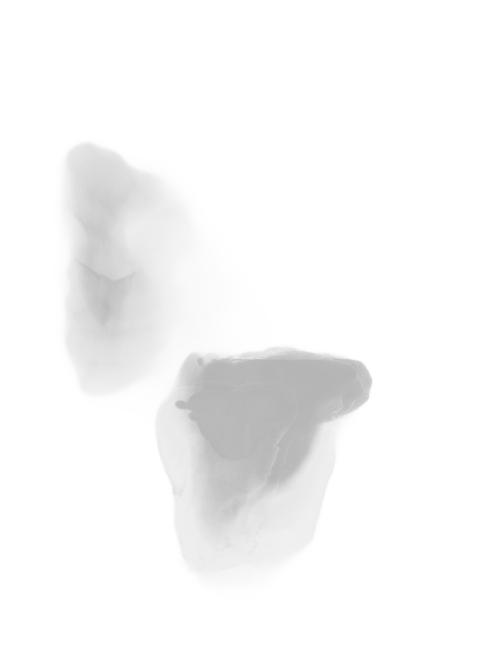
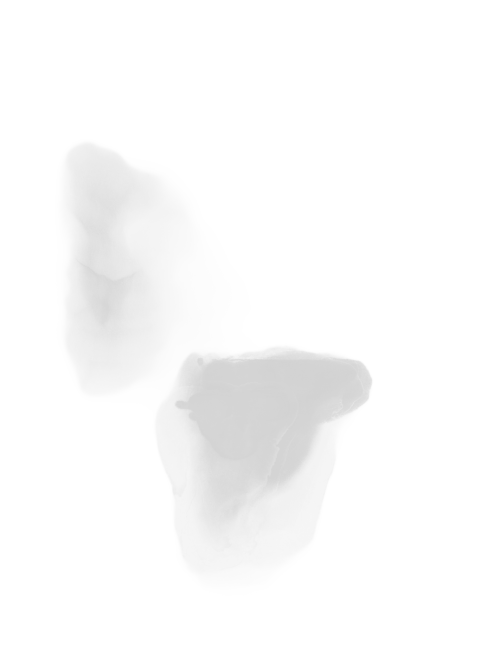
deploy: ypshen17/ypshen17-site-src@fec92125baae1ac3209c103fe54dfe2d74b7e0f9

Changed region(s): [[0.3742, 0.5538, 0.7484, 0.7692], [0.1871, 0.4308, 0.2495, 0.4923], [0.1871, 0.4, 0.2183, 0.4308]]

diff --git a/visions/03-inbetween/index.html b/visions/03-inbetween/index.html
@@ -18,12 +18,12 @@
 <meta property="og:site_name" content="Yipeng Shen" />
 <meta property="og:image" content="https://ypshen17.github.io/assets/visions/3.jpg" />
 <meta property="og:type" content="article" />
-<meta property="article:published_time" content="2025-09-19T15:05:08+00:00" />
+<meta property="article:published_time" content="2025-09-19T15:09:49+00:00" />
 <meta name="twitter:card" content="summary_large_image" />
 <meta property="twitter:image" content="https://ypshen17.github.io/assets/visions/3.jpg" />
 <meta property="twitter:title" content="The Spaces Between" />
 <script type="application/ld+json">
-{"@context":"https://schema.org","@type":"BlogPosting","dateModified":"2025-09-19T15:05:08+00:00","datePublished":"2025-09-19T15:05:08+00:00","description":"Urban spaces are often defined by what they contain. Buildings, roads, streets, and parks create a visible boundary between life and design. But what if we embraced the in-between? The spaces left unoccupied, the fragments of city design that remain undefined — these are the true potential spaces of the future. The gaps between buildings and roads will become the places of belonging, not bound by design but shaped by experience. The spaces between are not voids, but places of endless possibility. They are the spaces where sound meets thought, where humanity meets architecture. They will transform into interactive nodes, where individuals and communities can shape their surroundings, guided by their sensory experiences rather than rigid, predefined boundaries. Could the neglected margins of urban spaces hold the keys to inclusive design? These spaces may be the future heartbeats of a city that no longer divides, but embraces the unbuilt.","headline":"The Spaces Between","image":"https://ypshen17.github.io/assets/visions/3.jpg","mainEntityOfPage":{"@type":"WebPage","@id":"https://ypshen17.github.io/visions/03-inbetween/"},"url":"https://ypshen17.github.io/visions/03-inbetween/"}</script>
+{"@context":"https://schema.org","@type":"BlogPosting","dateModified":"2025-09-19T15:09:49+00:00","datePublished":"2025-09-19T15:09:49+00:00","description":"Urban spaces are often defined by what they contain. Buildings, roads, streets, and parks create a visible boundary between life and design. But what if we embraced the in-between? The spaces left unoccupied, the fragments of city design that remain undefined — these are the true potential spaces of the future. The gaps between buildings and roads will become the places of belonging, not bound by design but shaped by experience. The spaces between are not voids, but places of endless possibility. They are the spaces where sound meets thought, where humanity meets architecture. They will transform into interactive nodes, where individuals and communities can shape their surroundings, guided by their sensory experiences rather than rigid, predefined boundaries. Could the neglected margins of urban spaces hold the keys to inclusive design? These spaces may be the future heartbeats of a city that no longer divides, but embraces the unbuilt.","headline":"The Spaces Between","image":"https://ypshen17.github.io/assets/visions/3.jpg","mainEntityOfPage":{"@type":"WebPage","@id":"https://ypshen17.github.io/visions/03-inbetween/"},"url":"https://ypshen17.github.io/visions/03-inbetween/"}</script>
 <!-- End Jekyll SEO tag -->
 
 

diff --git a/visions/05-movement/index.html b/visions/05-movement/index.html
@@ -18,12 +18,12 @@
 <meta property="og:site_name" content="Yipeng Shen" />
 <meta property="og:image" content="https://ypshen17.github.io/assets/visions/5.jpg" />
 <meta property="og:type" content="article" />
-<meta property="article:published_time" content="2025-09-19T15:05:08+00:00" />
+<meta property="article:published_time" content="2025-09-19T15:09:49+00:00" />
 <meta name="twitter:card" content="summary_large_image" />
 <meta property="twitter:image" content="https://ypshen17.github.io/assets/visions/5.jpg" />
 <meta property="twitter:title" content="The Tides of Movement" />
 <script type="application/ld+json">
-{"@context":"https://schema.org","@type":"BlogPosting","dateModified":"2025-09-19T15:05:08+00:00","datePublished":"2025-09-19T15:05:08+00:00","description":"The city is not a static entity, but a dynamic force — flowing, moving, evolving. Human movement is the lifeblood of the city, but what if the city could move with us? What if urban spaces could adapt in real time, shifting with the rhythm of pedestrian, vehicular, and social flows? This vision imagines a liquid city, where spaces expand and contract depending on human needs, where streets breathe in harmony with the ebb and flow of life. Through sonic interaction, visual mapping, and adaptive architecture, the city will be able to sense and respond to its people, transforming itself to meet their needs. The tides of movement will be the new metric for urban design, as cities shift with their users, constantly reconfiguring to stay alive. How can we design cities that are alive, that move with us, rather than against us? The future city will not just house us, but flow with us, constantly adapting to the rhythm of life.","headline":"The Tides of Movement","image":"https://ypshen17.github.io/assets/visions/5.jpg","mainEntityOfPage":{"@type":"WebPage","@id":"https://ypshen17.github.io/visions/05-movement/"},"url":"https://ypshen17.github.io/visions/05-movement/"}</script>
+{"@context":"https://schema.org","@type":"BlogPosting","dateModified":"2025-09-19T15:09:49+00:00","datePublished":"2025-09-19T15:09:49+00:00","description":"The city is not a static entity, but a dynamic force — flowing, moving, evolving. Human movement is the lifeblood of the city, but what if the city could move with us? What if urban spaces could adapt in real time, shifting with the rhythm of pedestrian, vehicular, and social flows? This vision imagines a liquid city, where spaces expand and contract depending on human needs, where streets breathe in harmony with the ebb and flow of life. Through sonic interaction, visual mapping, and adaptive architecture, the city will be able to sense and respond to its people, transforming itself to meet their needs. The tides of movement will be the new metric for urban design, as cities shift with their users, constantly reconfiguring to stay alive. How can we design cities that are alive, that move with us, rather than against us? The future city will not just house us, but flow with us, constantly adapting to the rhythm of life.","headline":"The Tides of Movement","image":"https://ypshen17.github.io/assets/visions/5.jpg","mainEntityOfPage":{"@type":"WebPage","@id":"https://ypshen17.github.io/visions/05-movement/"},"url":"https://ypshen17.github.io/visions/05-movement/"}</script>
 <!-- End Jekyll SEO tag -->
 
 

diff --git a/visions/02-ground/index.html b/visions/02-ground/index.html
@@ -18,12 +18,12 @@
 <meta property="og:site_name" content="Yipeng Shen" />
 <meta property="og:image" content="https://ypshen17.github.io/assets/visions/2.jpg" />
 <meta property="og:type" content="article" />
-<meta property="article:published_time" content="2025-09-19T15:05:08+00:00" />
+<meta property="article:published_time" content="2025-09-19T15:09:49+00:00" />
 <meta name="twitter:card" content="summary_large_image" />
 <meta property="twitter:image" content="https://ypshen17.github.io/assets/visions/2.jpg" />
 <meta property="twitter:title" content="The Echoes of Silence" />
 <script type="application/ld+json">
-{"@context":"https://schema.org","@type":"BlogPosting","dateModified":"2025-09-19T15:05:08+00:00","datePublished":"2025-09-19T15:05:08+00:00","description":"The ground beneath our feet is more than just earth. It is a repository of stories, an echo of centuries of forgotten lives. As the city grows taller, its roots dig deeper, not into concrete foundations, but into the heartbeats of the land. To design the future of urban spaces is to reimagine the verticality of life — not upward, but downward. This vision seeks a reversal: instead of rising towards the sky, we dig into the depths of our urban environments. Subterranean worlds will be reconnected to the living above. Underground spaces, woven with natural and cultural histories, will shape the future cities we build. Soundscapes will emanate from the ground up — a reminder that the city has a soul buried within it. What if the earth beneath the city could speak? What if the city, instead of rising, listened? In this reimagined future, urbanism will grow downward and inward — where history is not lost, but retrieved.","headline":"The Echoes of Silence","image":"https://ypshen17.github.io/assets/visions/2.jpg","mainEntityOfPage":{"@type":"WebPage","@id":"https://ypshen17.github.io/visions/02-ground/"},"url":"https://ypshen17.github.io/visions/02-ground/"}</script>
+{"@context":"https://schema.org","@type":"BlogPosting","dateModified":"2025-09-19T15:09:49+00:00","datePublished":"2025-09-19T15:09:49+00:00","description":"The ground beneath our feet is more than just earth. It is a repository of stories, an echo of centuries of forgotten lives. As the city grows taller, its roots dig deeper, not into concrete foundations, but into the heartbeats of the land. To design the future of urban spaces is to reimagine the verticality of life — not upward, but downward. This vision seeks a reversal: instead of rising towards the sky, we dig into the depths of our urban environments. Subterranean worlds will be reconnected to the living above. Underground spaces, woven with natural and cultural histories, will shape the future cities we build. Soundscapes will emanate from the ground up — a reminder that the city has a soul buried within it. What if the earth beneath the city could speak? What if the city, instead of rising, listened? In this reimagined future, urbanism will grow downward and inward — where history is not lost, but retrieved.","headline":"The Echoes of Silence","image":"https://ypshen17.github.io/assets/visions/2.jpg","mainEntityOfPage":{"@type":"WebPage","@id":"https://ypshen17.github.io/visions/02-ground/"},"url":"https://ypshen17.github.io/visions/02-ground/"}</script>
 <!-- End Jekyll SEO tag -->
 
 

diff --git a/visions/04-memory/index.html b/visions/04-memory/index.html
@@ -18,12 +18,12 @@
 <meta property="og:site_name" content="Yipeng Shen" />
 <meta property="og:image" content="https://ypshen17.github.io/assets/visions/4.jpg" />
 <meta property="og:type" content="article" />
-<meta property="article:published_time" content="2025-09-19T15:05:08+00:00" />
+<meta property="article:published_time" content="2025-09-19T15:09:49+00:00" />
 <meta name="twitter:card" content="summary_large_image" />
 <meta property="twitter:image" content="https://ypshen17.github.io/assets/visions/4.jpg" />
 <meta property="twitter:title" content="The Sound of Memory" />
 <script type="application/ld+json">
-{"@context":"https://schema.org","@type":"BlogPosting","dateModified":"2025-09-19T15:05:08+00:00","datePublished":"2025-09-19T15:05:08+00:00","description":"Every city has a history that cannot be seen — only heard. The urban soundscape carries the memories of its people — whispered conversations, the clatter of construction, the distant echoes of a long-gone past. But in the modern city, we have erased much of this sound. The noise of progress has drowned out the voices of memory. In the future, cities will remember through sound. Each public space will be designed to hold sonic memories, where the past reverberates through the urban landscape. Sound libraries, archives of the forgotten, will fill the air with the voices of history, ensuring that the urban narrative is felt, not just seen. Sound-design tools will bring a future that listens. How does a city remember? What does a city speak, if its history is lost? In the sound of memory, the city will find its voice again — not just in visual spaces, but in sonic archives that echo across generations.","headline":"The Sound of Memory","image":"https://ypshen17.github.io/assets/visions/4.jpg","mainEntityOfPage":{"@type":"WebPage","@id":"https://ypshen17.github.io/visions/04-memory/"},"url":"https://ypshen17.github.io/visions/04-memory/"}</script>
+{"@context":"https://schema.org","@type":"BlogPosting","dateModified":"2025-09-19T15:09:49+00:00","datePublished":"2025-09-19T15:09:49+00:00","description":"Every city has a history that cannot be seen — only heard. The urban soundscape carries the memories of its people — whispered conversations, the clatter of construction, the distant echoes of a long-gone past. But in the modern city, we have erased much of this sound. The noise of progress has drowned out the voices of memory. In the future, cities will remember through sound. Each public space will be designed to hold sonic memories, where the past reverberates through the urban landscape. Sound libraries, archives of the forgotten, will fill the air with the voices of history, ensuring that the urban narrative is felt, not just seen. Sound-design tools will bring a future that listens. How does a city remember? What does a city speak, if its history is lost? In the sound of memory, the city will find its voice again — not just in visual spaces, but in sonic archives that echo across generations.","headline":"The Sound of Memory","image":"https://ypshen17.github.io/assets/visions/4.jpg","mainEntityOfPage":{"@type":"WebPage","@id":"https://ypshen17.github.io/visions/04-memory/"},"url":"https://ypshen17.github.io/visions/04-memory/"}</script>
 <!-- End Jekyll SEO tag -->
 
 

diff --git a/visions/01-echo/index.html b/visions/01-echo/index.html
@@ -18,12 +18,12 @@
 <meta property="og:site_name" content="Yipeng Shen" />
 <meta property="og:image" content="https://ypshen17.github.io/assets/visions/1.jpg" />
 <meta property="og:type" content="article" />
-<meta property="article:published_time" content="2025-09-19T15:05:08+00:00" />
+<meta property="article:published_time" content="2025-09-19T15:09:49+00:00" />
 <meta name="twitter:card" content="summary_large_image" />
 <meta property="twitter:image" content="https://ypshen17.github.io/assets/visions/1.jpg" />
 <meta property="twitter:title" content="The Echoes of Silence" />
 <script type="application/ld+json">
-{"@context":"https://schema.org","@type":"BlogPosting","dateModified":"2025-09-19T15:05:08+00:00","datePublished":"2025-09-19T15:05:08+00:00","description":"In the fragmented hum of modern cities, there lies an unnoticed silence. It is not the absence of sound, but the absence of presence. The urban pulse, embedded in the structures, only asks to be heard through fragmented frequencies, lost in the chaos of design. We stand at the edge of a new form of listening: The silence that is heard. This is a call for cities where sound and silence are not opposites, but intertwined. Where the void speaks, and the noise listens. In this sonic landscape, spaces will be designed to breathe with the rhythms of forgotten pasts and uncertain futures. Public spaces will become soundscapes, composed not just of human voices, but of the city’s pulse, its memory, its forgotten whispers. Can silence itself be a tool of urban inclusion? Can the absence of sound be reimagined as a voice that speaks to those silenced by the dominant noise of urbanization?","headline":"The Echoes of Silence","image":"https://ypshen17.github.io/assets/visions/1.jpg","mainEntityOfPage":{"@type":"WebPage","@id":"https://ypshen17.github.io/visions/01-echo/"},"url":"https://ypshen17.github.io/visions/01-echo/"}</script>
+{"@context":"https://schema.org","@type":"BlogPosting","dateModified":"2025-09-19T15:09:49+00:00","datePublished":"2025-09-19T15:09:49+00:00","description":"In the fragmented hum of modern cities, there lies an unnoticed silence. It is not the absence of sound, but the absence of presence. The urban pulse, embedded in the structures, only asks to be heard through fragmented frequencies, lost in the chaos of design. We stand at the edge of a new form of listening: The silence that is heard. This is a call for cities where sound and silence are not opposites, but intertwined. Where the void speaks, and the noise listens. In this sonic landscape, spaces will be designed to breathe with the rhythms of forgotten pasts and uncertain futures. Public spaces will become soundscapes, composed not just of human voices, but of the city’s pulse, its memory, its forgotten whispers. Can silence itself be a tool of urban inclusion? Can the absence of sound be reimagined as a voice that speaks to those silenced by the dominant noise of urbanization?","headline":"The Echoes of Silence","image":"https://ypshen17.github.io/assets/visions/1.jpg","mainEntityOfPage":{"@type":"WebPage","@id":"https://ypshen17.github.io/visions/01-echo/"},"url":"https://ypshen17.github.io/visions/01-echo/"}</script>
 <!-- End Jekyll SEO tag -->
 
 

diff --git a/projects/01-sonic-urbanism/index.html b/projects/01-sonic-urbanism/index.html
@@ -17,11 +17,11 @@
 <meta property="og:url" content="https://ypshen17.github.io/projects/01-sonic-urbanism/" />
 <meta property="og:site_name" content="Yipeng Shen" />
 <meta property="og:type" content="article" />
-<meta property="article:published_time" content="2025-09-19T15:05:08+00:00" />
+<meta property="article:published_time" content="2025-09-19T15:09:49+00:00" />
 <meta name="twitter:card" content="summary" />
 <meta property="twitter:title" content="A Sonic Urbanism Passeggiata" />
 <script type="application/ld+json">
-{"@context":"https://schema.org","@type":"BlogPosting","dateModified":"2025-09-19T15:05:08+00:00","datePublished":"2025-09-19T15:05:08+00:00","description":"Thesis project applying the Listening–Scoring–Performing method to Milan’s South-East Axis. Focus on sonification, public space design, and node interventions at Piazza Missori and Piazzale Rogoredo. Recognised with 110L/110 cum laude and Excellent Thesis Award.","headline":"A Sonic Urbanism Passeggiata","mainEntityOfPage":{"@type":"WebPage","@id":"https://ypshen17.github.io/projects/01-sonic-urbanism/"},"url":"https://ypshen17.github.io/projects/01-sonic-urbanism/"}</script>
+{"@context":"https://schema.org","@type":"BlogPosting","dateModified":"2025-09-19T15:09:49+00:00","datePublished":"2025-09-19T15:09:49+00:00","description":"Thesis project applying the Listening–Scoring–Performing method to Milan’s South-East Axis. Focus on sonification, public space design, and node interventions at Piazza Missori and Piazzale Rogoredo. Recognised with 110L/110 cum laude and Excellent Thesis Award.","headline":"A Sonic Urbanism Passeggiata","mainEntityOfPage":{"@type":"WebPage","@id":"https://ypshen17.github.io/projects/01-sonic-urbanism/"},"url":"https://ypshen17.github.io/projects/01-sonic-urbanism/"}</script>
 <!-- End Jekyll SEO tag -->
 
 

diff --git a/projects/02-old-stage/index.html b/projects/02-old-stage/index.html
@@ -17,11 +17,11 @@
 <meta property="og:url" content="https://ypshen17.github.io/projects/02-old-stage/" />
 <meta property="og:site_name" content="Yipeng Shen" />
 <meta property="og:type" content="article" />
-<meta property="article:published_time" content="2025-09-19T15:05:08+00:00" />
+<meta property="article:published_time" content="2025-09-19T15:09:49+00:00" />
 <meta name="twitter:card" content="summary" />
 <meta property="twitter:title" content="Old Stage for New Life" />
 <script type="application/ld+json">
-{"@context":"https://schema.org","@type":"BlogPosting","dateModified":"2025-09-19T15:05:08+00:00","datePublished":"2025-09-19T15:05:08+00:00","description":"Urban regeneration of Meda’s historic centre, reactivating abandoned ruins into cultural and public spaces. Collaboration with Yichuan Guo, supervised by Prof. Pezzetti and team.","headline":"Old Stage for New Life","mainEntityOfPage":{"@type":"WebPage","@id":"https://ypshen17.github.io/projects/02-old-stage/"},"url":"https://ypshen17.github.io/projects/02-old-stage/"}</script>
+{"@context":"https://schema.org","@type":"BlogPosting","dateModified":"2025-09-19T15:09:49+00:00","datePublished":"2025-09-19T15:09:49+00:00","description":"Urban regeneration of Meda’s historic centre, reactivating abandoned ruins into cultural and public spaces. Collaboration with Yichuan Guo, supervised by Prof. Pezzetti and team.","headline":"Old Stage for New Life","mainEntityOfPage":{"@type":"WebPage","@id":"https://ypshen17.github.io/projects/02-old-stage/"},"url":"https://ypshen17.github.io/projects/02-old-stage/"}</script>
 <!-- End Jekyll SEO tag -->
 
 

diff --git a/projects/04-commusication/index.html b/projects/04-commusication/index.html
@@ -17,11 +17,11 @@
 <meta property="og:url" content="https://ypshen17.github.io/projects/04-commusication/" />
 <meta property="og:site_name" content="Yipeng Shen" />
 <meta property="og:type" content="article" />
-<meta property="article:published_time" content="2025-09-19T15:05:08+00:00" />
+<meta property="article:published_time" content="2025-09-19T15:09:49+00:00" />
 <meta name="twitter:card" content="summary" />
 <meta property="twitter:title" content="COMMUSICATION" />
 <script type="application/ld+json">
-{"@context":"https://schema.org","@type":"BlogPosting","dateModified":"2025-09-19T15:05:08+00:00","datePublished":"2025-09-19T15:05:08+00:00","description":"Bachelor’s thesis exploring Sonic Urbanism strategies for Xining’s West Gate–Grand Cross. Proposed musical complex and design guidelines based on sonification and scoring.","headline":"COMMUSICATION","mainEntityOfPage":{"@type":"WebPage","@id":"https://ypshen17.github.io/projects/04-commusication/"},"url":"https://ypshen17.github.io/projects/04-commusication/"}</script>
+{"@context":"https://schema.org","@type":"BlogPosting","dateModified":"2025-09-19T15:09:49+00:00","datePublished":"2025-09-19T15:09:49+00:00","description":"Bachelor’s thesis exploring Sonic Urbanism strategies for Xining’s West Gate–Grand Cross. Proposed musical complex and design guidelines based on sonification and scoring.","headline":"COMMUSICATION","mainEntityOfPage":{"@type":"WebPage","@id":"https://ypshen17.github.io/projects/04-commusication/"},"url":"https://ypshen17.github.io/projects/04-commusication/"}</script>
 <!-- End Jekyll SEO tag -->
 
 

diff --git a/projects/10-musical-cities/index.html b/projects/10-musical-cities/index.html
@@ -17,11 +17,11 @@
 <meta property="og:url" content="https://ypshen17.github.io/projects/10-musical-cities/" />
 <meta property="og:site_name" content="Yipeng Shen" />
 <meta property="og:type" content="article" />
-<meta property="article:published_time" content="2025-09-19T15:05:08+00:00" />
+<meta property="article:published_time" content="2025-09-19T15:09:49+00:00" />
 <meta name="twitter:card" content="summary" />
 <meta property="twitter:title" content="A Study on Sara Adhitya’s Musical Cities" />
 <script type="application/ld+json">
-{"@context":"https://schema.org","@type":"BlogPosting","dateModified":"2025-09-19T15:05:08+00:00","datePublished":"2025-09-19T15:05:08+00:00","description":"Academic review article (with Prof. Zhu) on Sara Adhitya’s book Musical Cities. Published in Urban Design (2022).","headline":"A Study on Sara Adhitya’s Musical Cities","mainEntityOfPage":{"@type":"WebPage","@id":"https://ypshen17.github.io/projects/10-musical-cities/"},"url":"https://ypshen17.github.io/projects/10-musical-cities/"}</script>
+{"@context":"https://schema.org","@type":"BlogPosting","dateModified":"2025-09-19T15:09:49+00:00","datePublished":"2025-09-19T15:09:49+00:00","description":"Academic review article (with Prof. Zhu) on Sara Adhitya’s book Musical Cities. Published in Urban Design (2022).","headline":"A Study on Sara Adhitya’s Musical Cities","mainEntityOfPage":{"@type":"WebPage","@id":"https://ypshen17.github.io/projects/10-musical-cities/"},"url":"https://ypshen17.github.io/projects/10-musical-cities/"}</script>
 <!-- End Jekyll SEO tag -->
 
 

diff --git a/projects/09-nuovi-porti/index.html b/projects/09-nuovi-porti/index.html
@@ -17,11 +17,11 @@
 <meta property="og:url" content="https://ypshen17.github.io/projects/09-nuovi-porti/" />
 <meta property="og:site_name" content="Yipeng Shen" />
 <meta property="og:type" content="article" />
-<meta property="article:published_time" content="2025-09-19T15:05:08+00:00" />
+<meta property="article:published_time" content="2025-09-19T15:09:49+00:00" />
 <meta name="twitter:card" content="summary" />
 <meta property="twitter:title" content="Nuovi Porti per Nuova Portualità" />
 <script type="application/ld+json">
-{"@context":"https://schema.org","@type":"BlogPosting","dateModified":"2025-09-19T15:05:08+00:00","datePublished":"2025-09-19T15:05:08+00:00","description":"Workshop exploring future port activities and adaptive reuse in Trapani. Produced public space strategies and waterfront regeneration.","headline":"Nuovi Porti per Nuova Portualità","mainEntityOfPage":{"@type":"WebPage","@id":"https://ypshen17.github.io/projects/09-nuovi-porti/"},"url":"https://ypshen17.github.io/projects/09-nuovi-porti/"}</script>
+{"@context":"https://schema.org","@type":"BlogPosting","dateModified":"2025-09-19T15:09:49+00:00","datePublished":"2025-09-19T15:09:49+00:00","description":"Workshop exploring future port activities and adaptive reuse in Trapani. Produced public space strategies and waterfront regeneration.","headline":"Nuovi Porti per Nuova Portualità","mainEntityOfPage":{"@type":"WebPage","@id":"https://ypshen17.github.io/projects/09-nuovi-porti/"},"url":"https://ypshen17.github.io/projects/09-nuovi-porti/"}</script>
 <!-- End Jekyll SEO tag -->
 
 

diff --git a/projects/11-miyisuo/index.html b/projects/11-miyisuo/index.html
@@ -17,11 +17,11 @@
 <meta property="og:url" content="https://ypshen17.github.io/projects/11-miyisuo/" />
 <meta property="og:site_name" content="Yipeng Shen" />
 <meta property="og:type" content="article" />
-<meta property="article:published_time" content="2025-09-19T15:05:08+00:00" />
+<meta property="article:published_time" content="2025-09-19T15:09:49+00:00" />
 <meta name="twitter:card" content="summary" />
 <meta property="twitter:title" content="MiYiSuo Short Articles" />
 <script type="application/ld+json">
-{"@context":"https://schema.org","@type":"BlogPosting","dateModified":"2025-09-19T15:05:08+00:00","datePublished":"2025-09-19T15:05:08+00:00","description":"Fifteen short articles in MiYiSuo Column (Urban Design Journal). Topics: rural revitalisation, micro-renovations, spontaneous public spaces.","headline":"MiYiSuo Short Articles","mainEntityOfPage":{"@type":"WebPage","@id":"https://ypshen17.github.io/projects/11-miyisuo/"},"url":"https://ypshen17.github.io/projects/11-miyisuo/"}</script>
+{"@context":"https://schema.org","@type":"BlogPosting","dateModified":"2025-09-19T15:09:49+00:00","datePublished":"2025-09-19T15:09:49+00:00","description":"Fifteen short articles in MiYiSuo Column (Urban Design Journal). Topics: rural revitalisation, micro-renovations, spontaneous public spaces.","headline":"MiYiSuo Short Articles","mainEntityOfPage":{"@type":"WebPage","@id":"https://ypshen17.github.io/projects/11-miyisuo/"},"url":"https://ypshen17.github.io/projects/11-miyisuo/"}</script>
 <!-- End Jekyll SEO tag -->
 
 

diff --git a/projects/06-fence-space/index.html b/projects/06-fence-space/index.html
@@ -17,11 +17,11 @@
 <meta property="og:url" content="https://ypshen17.github.io/projects/06-fence-space/" />
 <meta property="og:site_name" content="Yipeng Shen" />
 <meta property="og:type" content="article" />
-<meta property="article:published_time" content="2025-09-19T15:05:08+00:00" />
+<meta property="article:published_time" content="2025-09-19T15:09:49+00:00" />
 <meta name="twitter:card" content="summary" />
 <meta property="twitter:title" content="On Off the Fence Space" />
 <script type="application/ld+json">
-{"@context":"https://schema.org","@type":"BlogPosting","dateModified":"2025-09-19T15:05:08+00:00","datePublished":"2025-09-19T15:05:08+00:00","description":"Ethnographic study of marginal fence-lined spaces in Milan. Explores appropriation, informality, and affordances. Scored 30/30.","headline":"On Off the Fence Space","mainEntityOfPage":{"@type":"WebPage","@id":"https://ypshen17.github.io/projects/06-fence-space/"},"url":"https://ypshen17.github.io/projects/06-fence-space/"}</script>
+{"@context":"https://schema.org","@type":"BlogPosting","dateModified":"2025-09-19T15:09:49+00:00","datePublished":"2025-09-19T15:09:49+00:00","description":"Ethnographic study of marginal fence-lined spaces in Milan. Explores appropriation, informality, and affordances. Scored 30/30.","headline":"On Off the Fence Space","mainEntityOfPage":{"@type":"WebPage","@id":"https://ypshen17.github.io/projects/06-fence-space/"},"url":"https://ypshen17.github.io/projects/06-fence-space/"}</script>
 <!-- End Jekyll SEO tag -->
 
 
